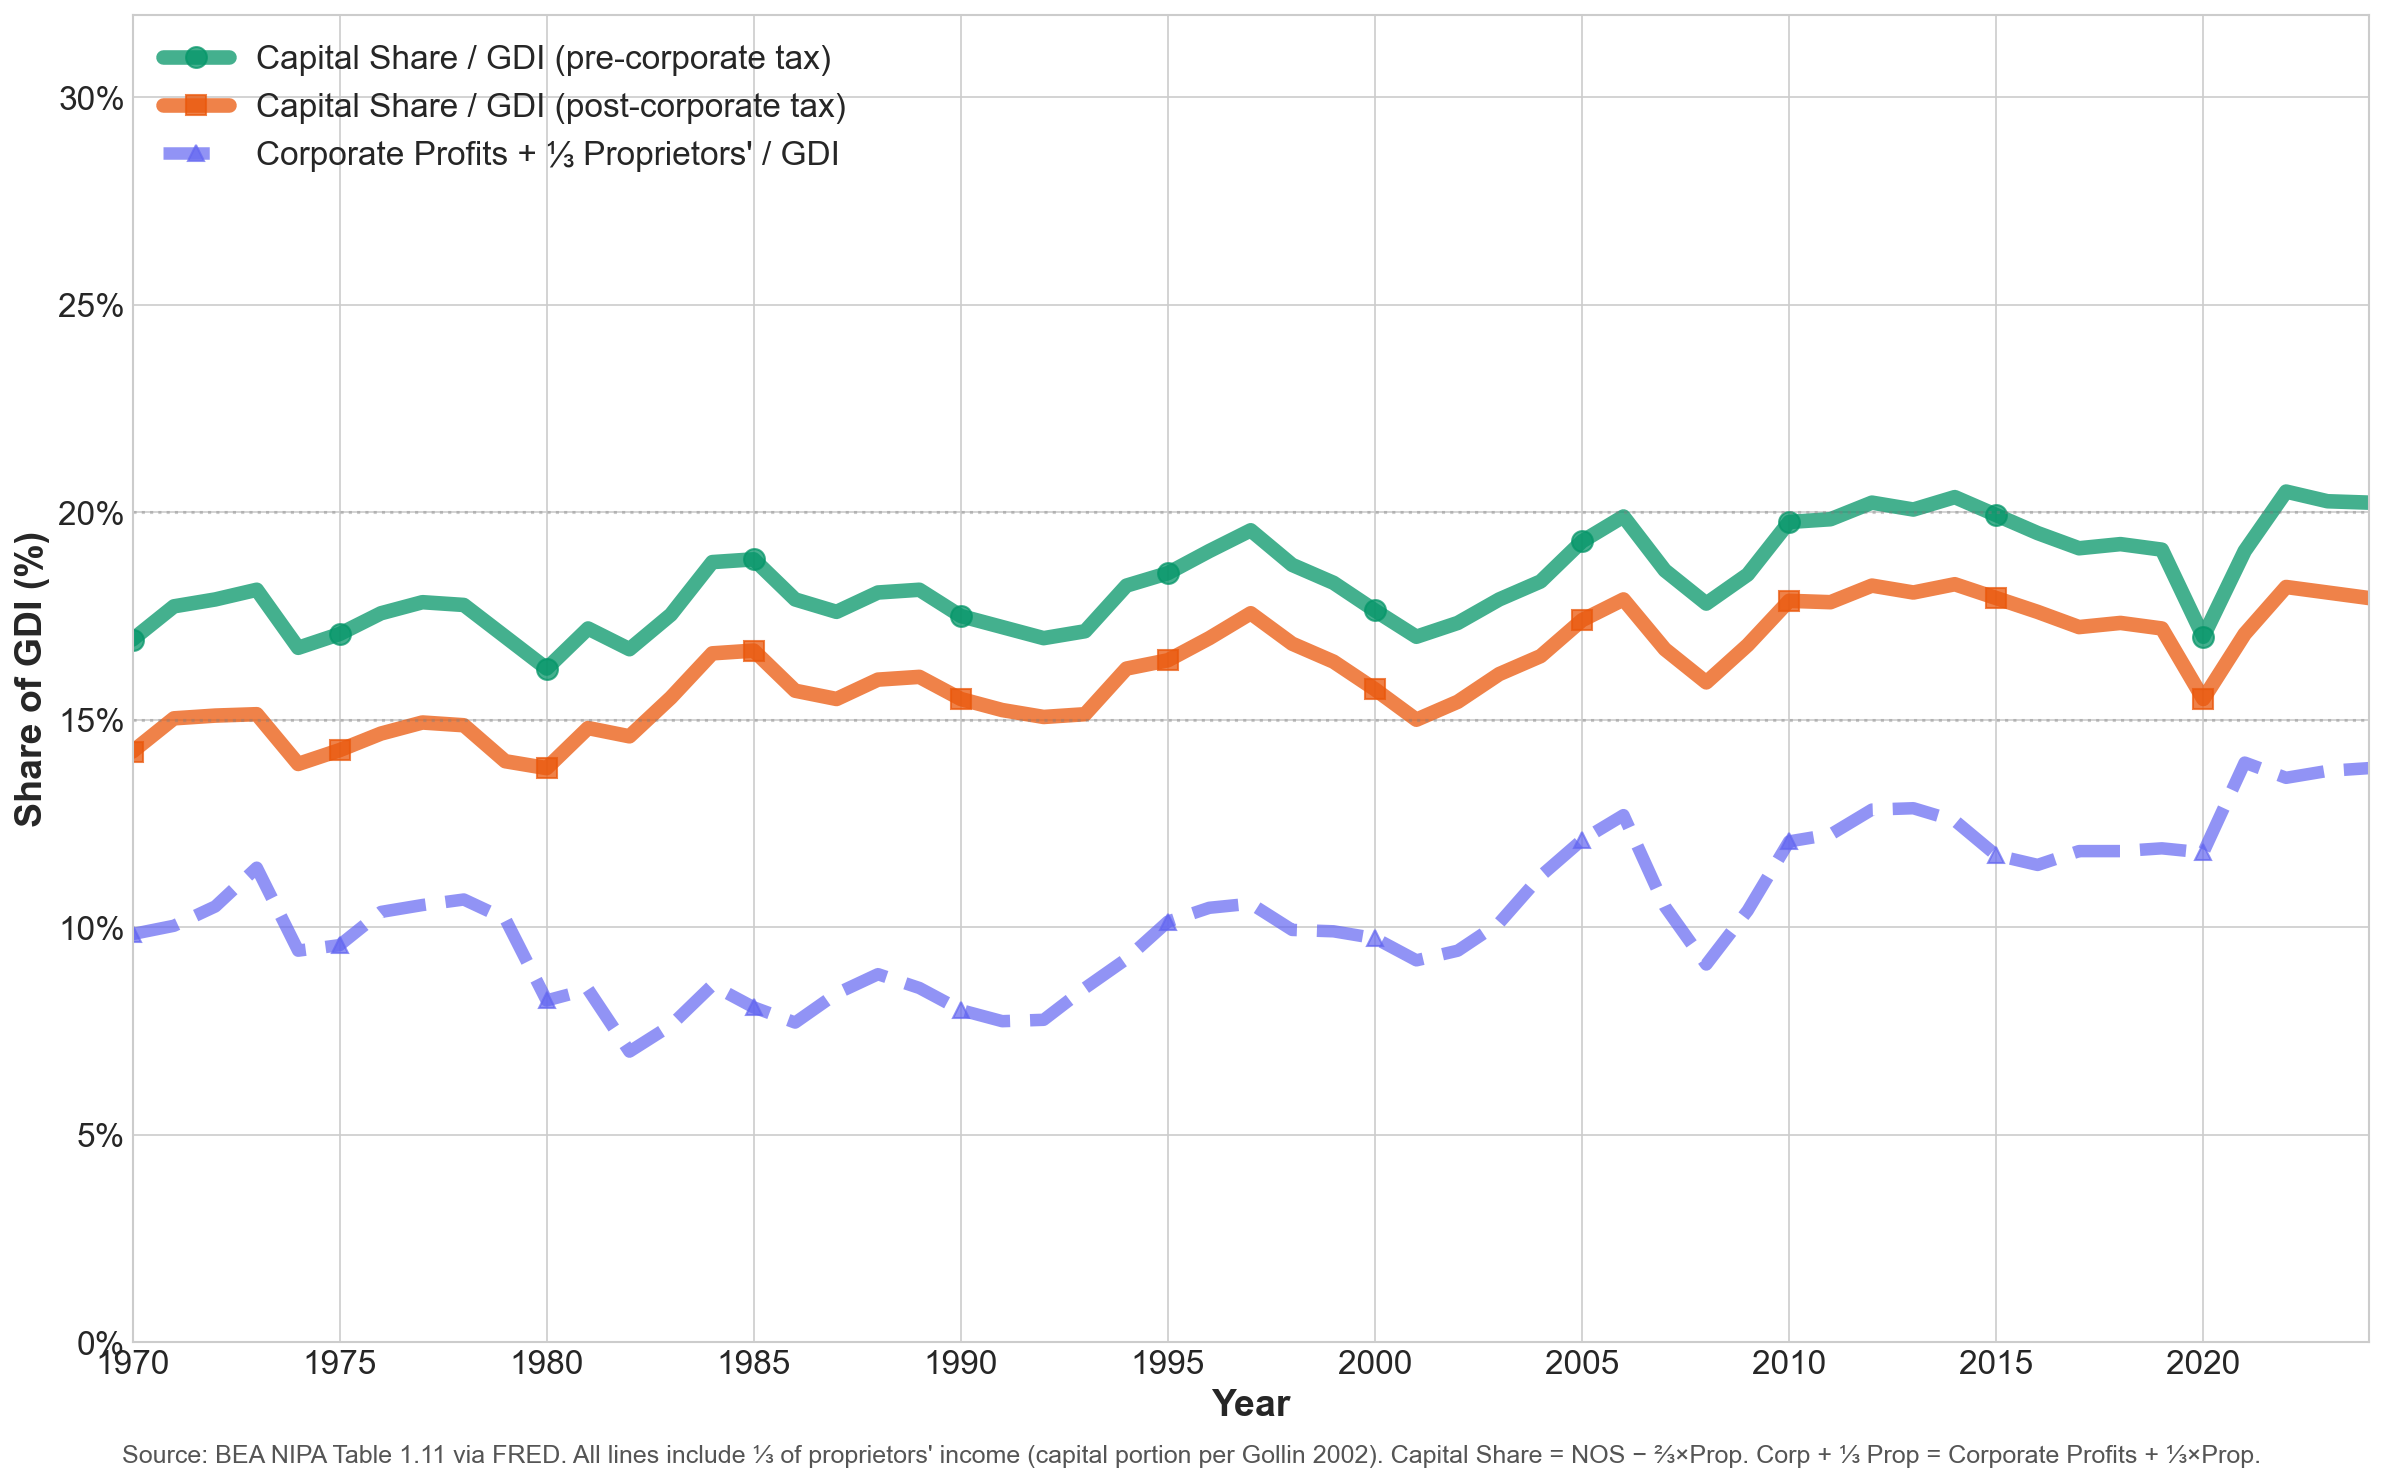
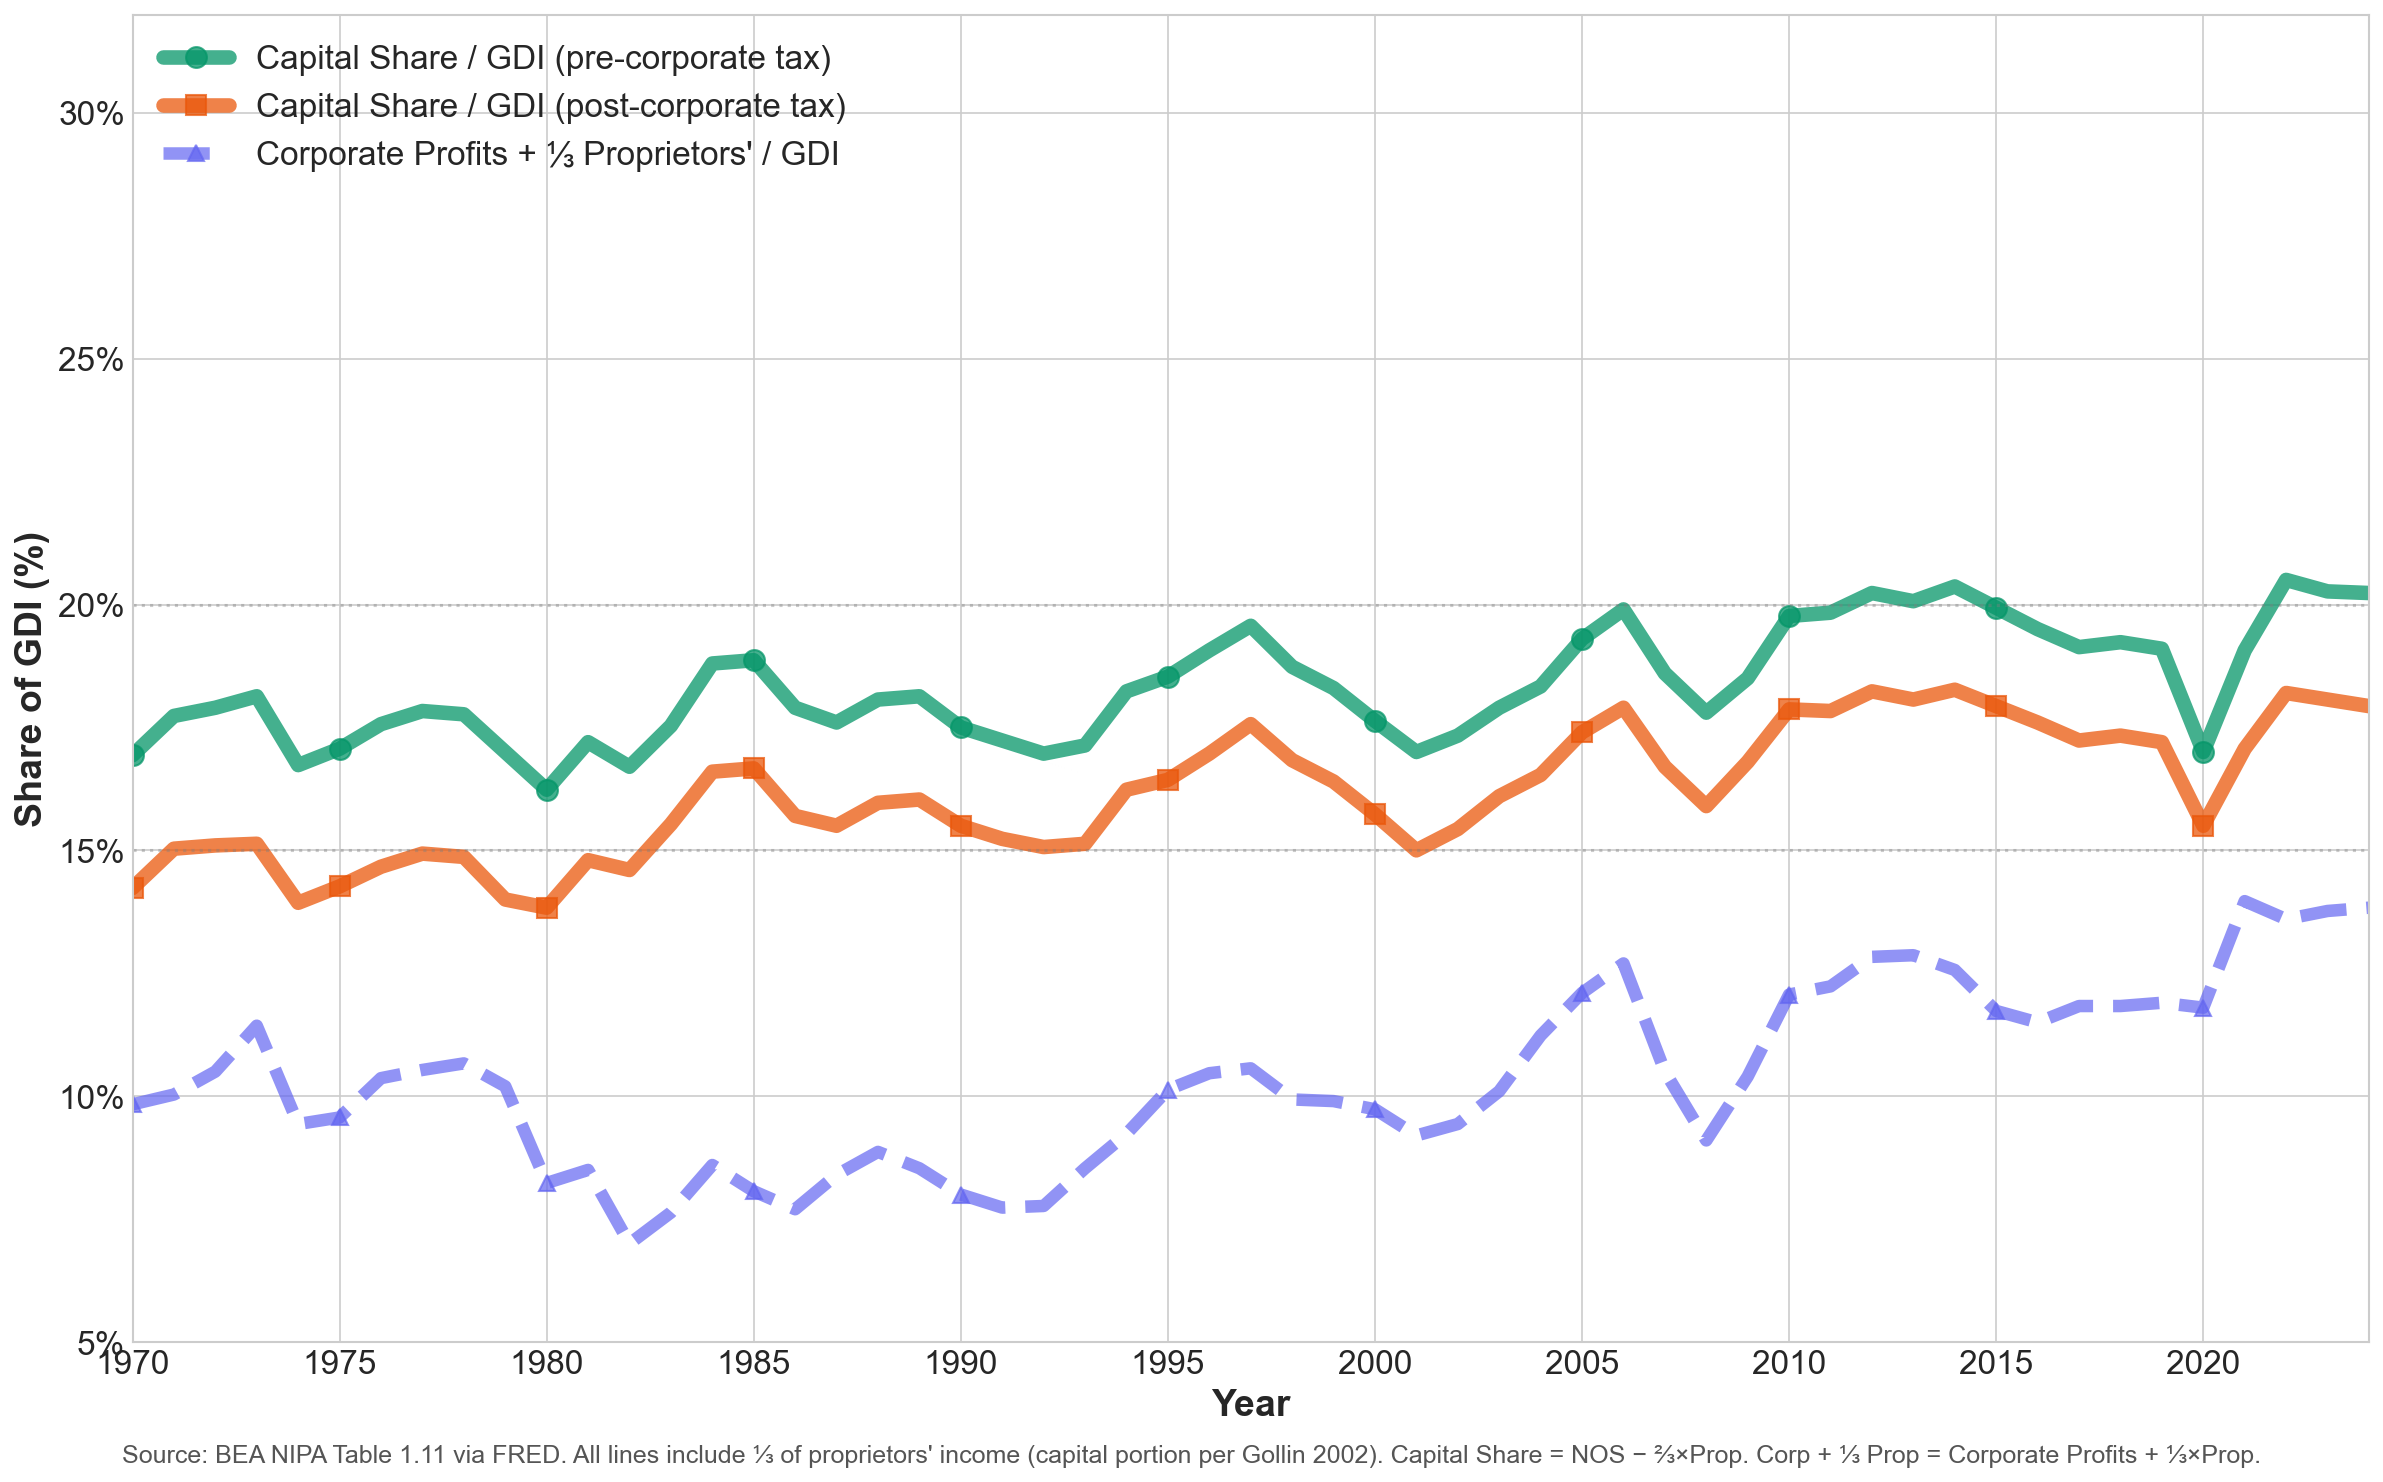
Figure 3: Start y-axis at 5% instead of 0%
Better use of chart space for the data range.

diff --git a/generate_chart.py b/generate_chart.py
@@ -413,8 +413,8 @@ def create_capital_share_chart():
     ax.set_xticklabels([str(y) for y in range(1970, 2025, 5)], fontsize=TICK_SIZE)
 
     # Y-axis
-    ax.set_ylim(0, 32)
-    ax.set_yticks(range(0, 35, 5))
+    ax.set_ylim(5, 32)
+    ax.set_yticks(range(5, 35, 5))
     ax.tick_params(axis='y', labelsize=TICK_SIZE)
     ax.yaxis.set_major_formatter(mtick.PercentFormatter(decimals=0))
 
